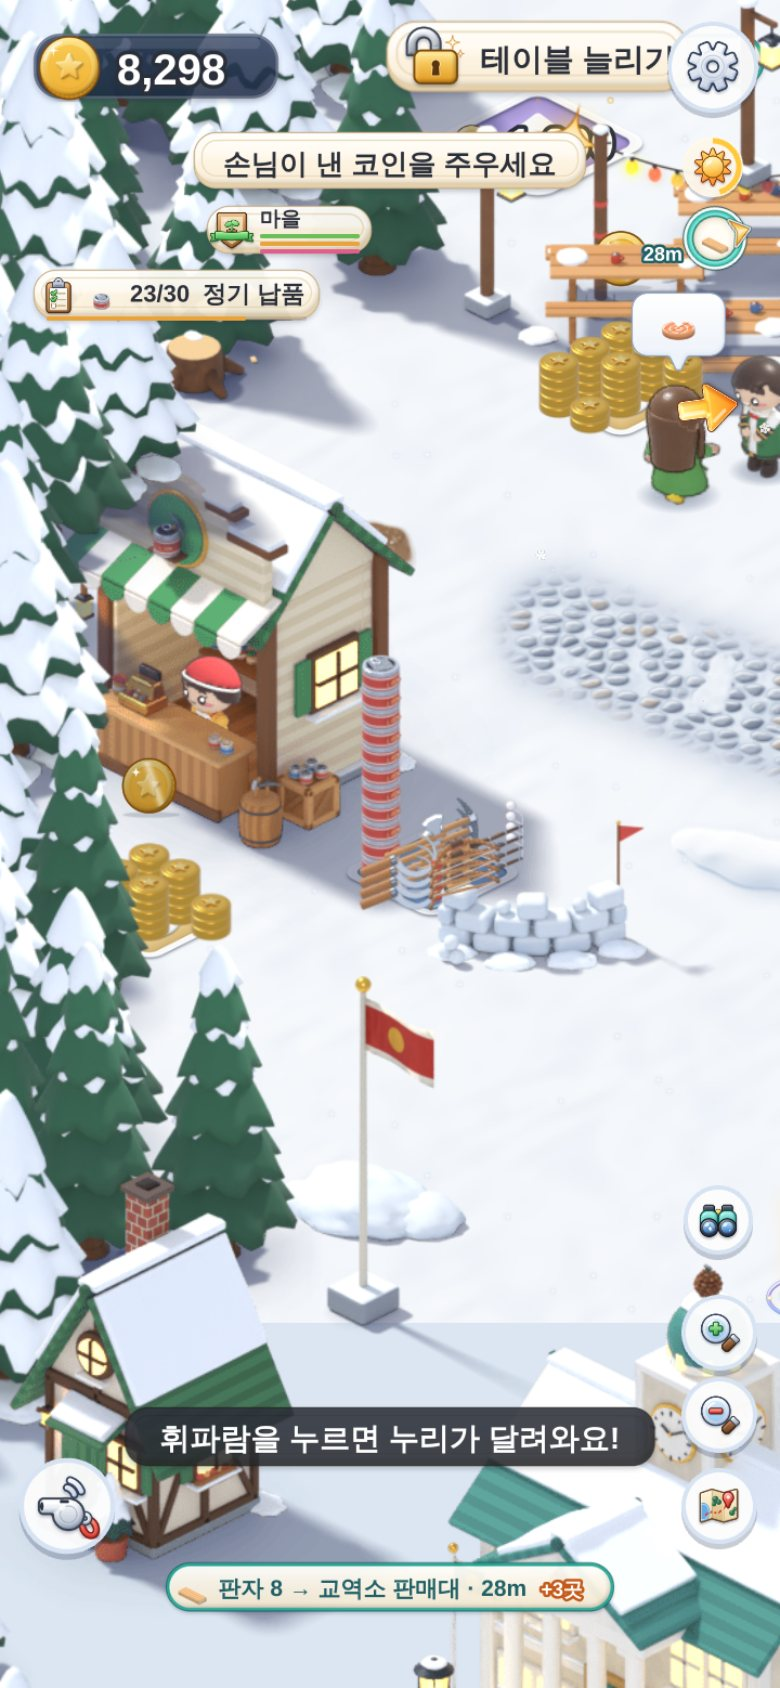
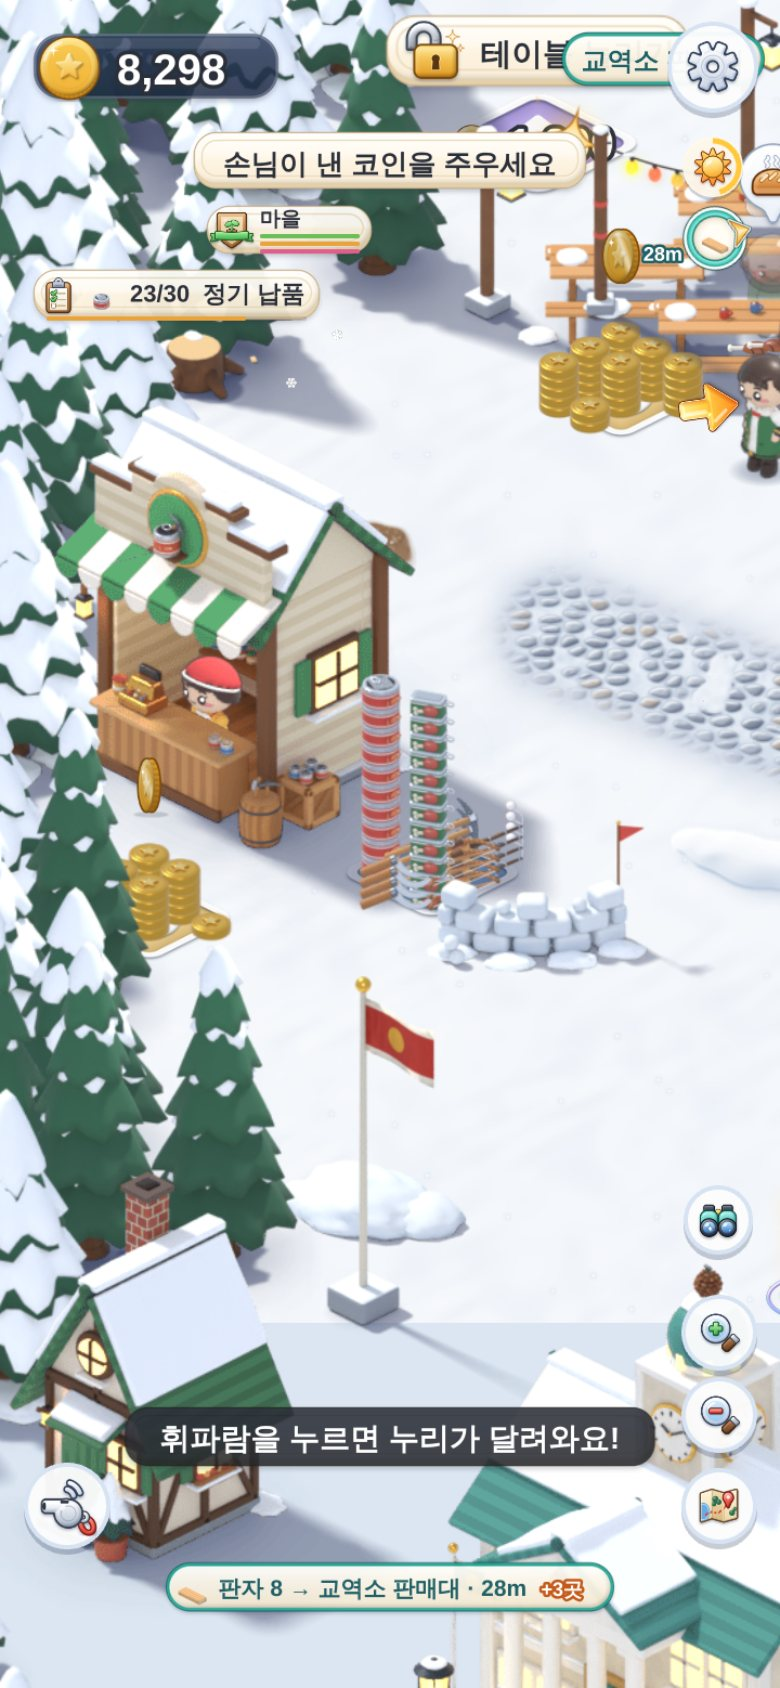
WIP snapshot (v4.2.1 meat cans: strings, item stack, test, screenshots)
Claude-Session: https://claude.ai/code/session_013Tw35UF4PB1GXz6AR9E9kG

diff --git a/frost-village/src/entities/ItemStack.js b/frost-village/src/entities/ItemStack.js
@@ -196,9 +196,11 @@ export class ItemStack {
     const items = this.items;
     const n = items.length;
     if (this.typeCols) {
-      const hs = [0, 0, 0, 0, 0, 0];
+      // ((v4.2.1) one height per tower: the 잡화점 has 7 since meat cans (a fixed 6 left the 7th tower at NaN, unseen)
+      const hs = this._hsT || (this._hsT = []), cs = this._csT || (this._csT = []);
+      for (let k = 0, nk = Math.max(8, this.cols.length); k < nk; k++) { hs[k] = 0; cs[k] = 0; }
       // ((v4-C) drawMax: a tower shows at most this many layers, the rest stay on its top)
-      const lim = this.drawMax || Infinity, cs = [0, 0, 0, 0, 0, 0];
+      const lim = this.drawMax || Infinity;
       for (let i = 0; i < n; i++) {
         const it = items[i];
         const col = this.typeCols[it.type] || 0;
@@ -259,7 +261,7 @@ export class ItemStack {
     if (this.bakeDirty || moved) {
       if (this.typeCols) {
         const hs = this._hs || (this._hs = []), cs = this._cs || (this._cs = []);
-        for (let k = 0; k < 8; k++) { hs[k] = 0; cs[k] = 0; }
+        for (let k = 0, nk = Math.max(8, this.cols.length); k < nk; k++) { hs[k] = 0; cs[k] = 0; }
         const lim = this.drawMax || Infinity;
         for (let i = 0; i < n; i++) {
           const it = items[i], col = this.typeCols[it.type] || 0, c = this.cols[col] || this.cols[0];

diff --git a/frost-village/src/data/strings.js b/frost-village/src/data/strings.js
@@ -428,7 +428,6 @@ export const STRINGS = {
     item_can_meat: '고기 통조림', mcan_pad: '고기 통조림 기계',
     mcanBanner: '남는 고기로 통조림을 만들 수 있어요!', mcanSub: '통조림 공장 옆 발판에서 기계를 들여요. 짐꾼 두 명이 함께 와요',
     mcanDone: '이제 통조림 공장이 고기 통조림도 만들어요', mcanDoneSub: '고기 걸이에 남는 고기를 날라 와요',
-    job_mcan_raw: '고기 짐꾼 (통조림)', job_mcan_goods: '고기 통조림 짐꾼',
   },
 
   en: {
@@ -817,7 +816,6 @@ export const STRINGS = {
     cut_train: 'the train comes in', cut_ribbon: 'a ribbon cutting', cut_movein: 'new neighbours', cut_vault: 'the vault spins', cut_mail: 'a letter in the mailbox', cut_sleigh: 'the sleigh is loaded',    item_can_meat: 'meat can', mcan_pad: 'Meat-can machine',
     mcanBanner: 'Leftover meat can go into cans!', mcanSub: 'Buy the machine on the pad by the cannery. Two porters come with it',
     mcanDone: 'The cannery makes meat cans now', mcanDoneSub: 'A porter brings the leftover meat from the meat rack',
-    job_mcan_raw: 'Meat porter (cannery)', job_mcan_goods: 'Meat-can porter',
   },
 };
 
